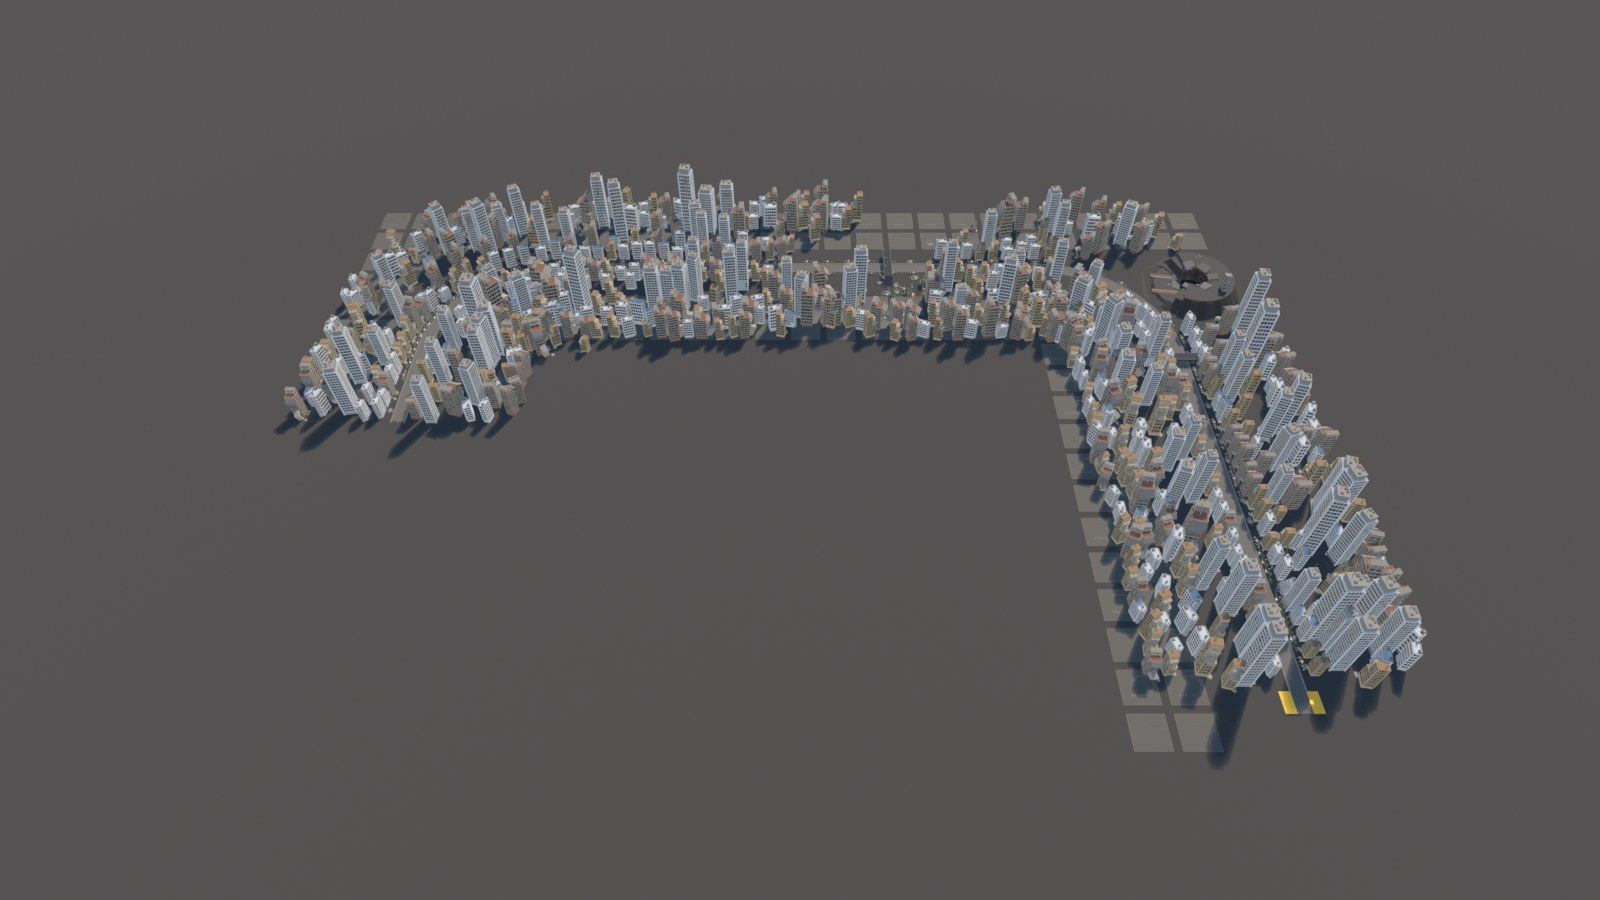
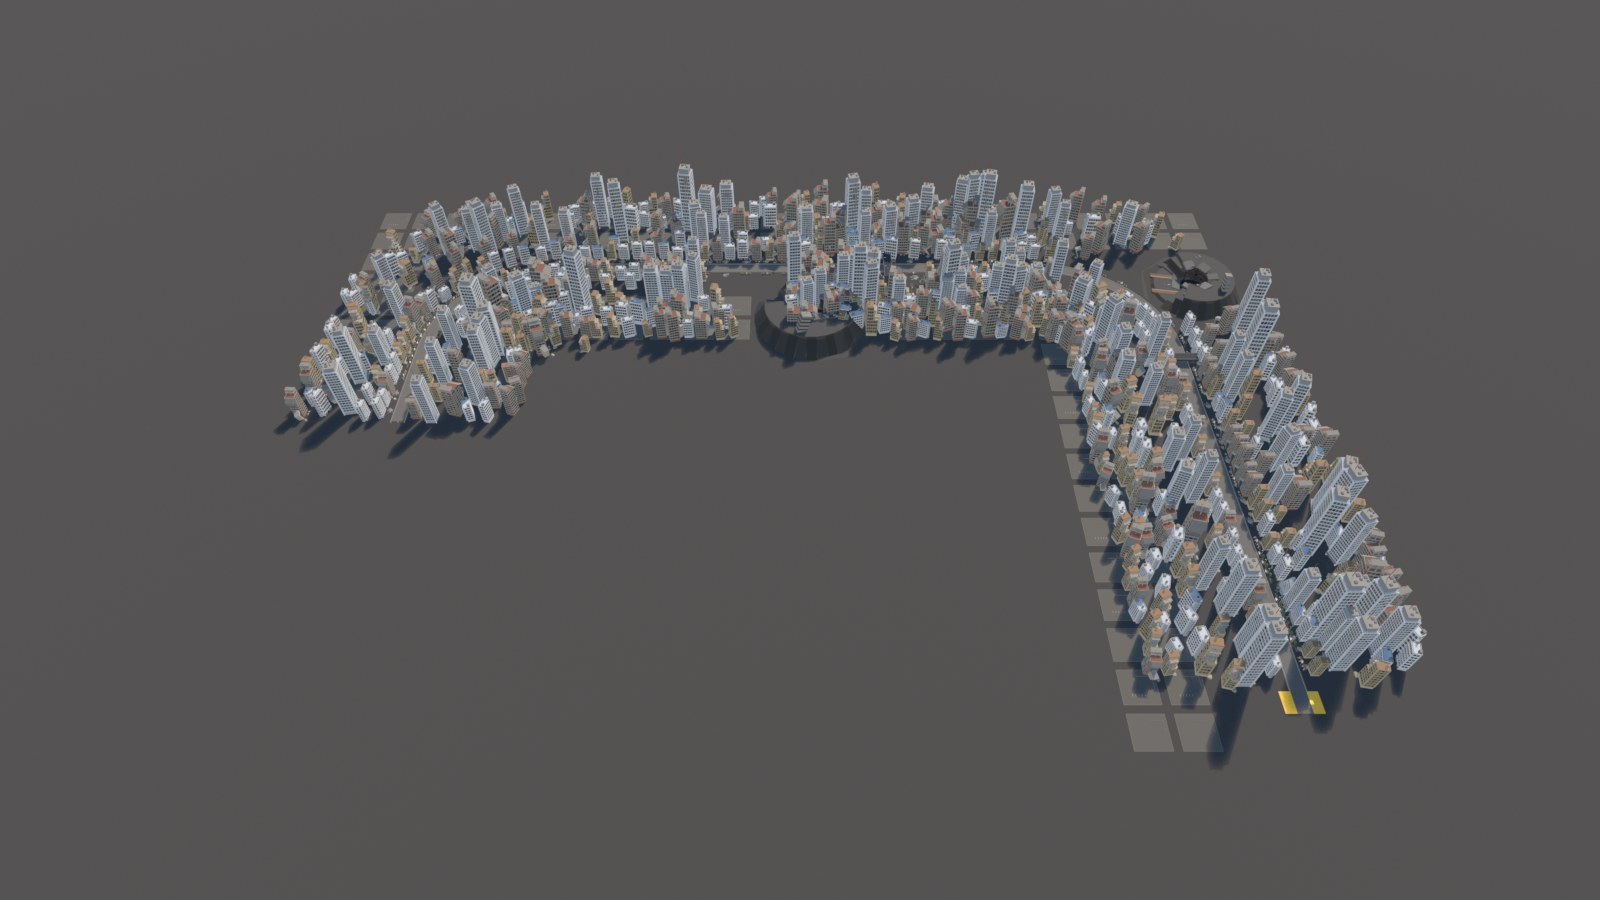
World 2 re-fit round 2, Track 3 after blind review (6/6/6): the 0.33 view's crater back, the side view's lots built up
- The infield crater (approved scale 1.5, turn 0.3), whose approved spot (the box centre) is another track's ground,
  stands beside the road ahead of the 0.33 camera (about 420 ahead, 260-310 to the side; whole bowl 24+ clear of every
  road, base centre on own ground and Ground rect, 300+ from the other crater and the overpasses); a wedge of street
  walls between the camera and the bowl is cleared so the dark plateau shows. The 0.62 crater stays.
- The 05 side view's frame: empty lots beyond the wreck street get the approved buildings (MidRise, OfficeBroken,
  Collapsed; HighRise only inside 270) at 1.0-1.3, heights varied as elsewhere, facing the road.
Export: 1054 kept, 4 dropped (HeroHQ no spot; MidRise and Collapsed on a checkpoint pad; one Kerb on Track 2's
ground). Heroes: BrickFlat, Crater 2, Overpass 3. Density 3.12 -> 3.47 per 10k stud2 (approved 9.13).

Changed region(s): [[0.4375, 0.1867, 0.6562, 0.4044]]

diff --git a/tools/blender/world2/biomes/RuinedCityZ.py b/tools/blender/world2/biomes/RuinedCityZ.py
@@ -968,6 +968,45 @@ def build(k):
 				break
 		if done:
 			break
+	# 02: the infield crater (approved: scale 1.5, turn 0.3, the dark bowl the 33% view looks at). Its approved spot, the
+	# track box's centre, is another track's ground on the wide layout, so it stands beside the road ahead of the 0.33
+	# camera instead, its whole bowl clear of every road (24 studs), its base centre on this track's own ground and Ground
+	# rect, the sight line to it cleared; not on the 0.62 crater or an overpass (re-fit round 2, proposed spot).
+	e, t = _eye(k, 0.33)
+	side = Vector((-t.z, 0, t.x))
+	spot = None
+	others = [(ob.location.x, -ob.location.y) for ob in k.col.objects if ob.type == "MESH" and ob.name.split("_")[2] in ("Crater", "Overpass")]
+	for dist in range(350, 1301, 50):
+		for lat in (260, -260, 285, -285, 310, -310):
+			x, z = e.x + t.x * dist + side.x * lat, e.z + t.z * dist + side.z * lat
+			if (
+				_clear_seg(k, x, z, 218 + 24)
+				and k.owns(x, z)
+				and _on_ground(k, x, z)
+				and all(math.hypot(x - a, z - b) > 300 for a, b in others)
+			):
+				spot = (x, z)
+				break
+		if spot:
+			break
+	if spot:
+		x, z = spot
+		_clear_near(k, x, z, 240, BUILD + ("Kerb", "Rubble", "Blocks", "Barricade"))
+		# the street walls between the camera and the bowl go, in a wedge widening to the bowl's width, so the low dark
+		# plateau (about 69 studs high at 1.5) shows from the runner's lane
+		vx, vz = x - e.x, z - e.z
+		ln = math.hypot(vx, vz)
+		for ob in list(k.col.objects):
+			if ob.type != "MESH" or ob.name.split("_")[2] not in BUILD:
+				continue
+			ox, oz = ob.location.x - e.x, -ob.location.y - e.z
+			u = (ox * vx + oz * vz) / (ln * ln)
+			if 0.02 < u < 1.05 and abs(ox * vz - oz * vx) / ln < 25 + 225 * u:
+				k.col.objects.unlink(ob)
+		k.place("Crater", (x, -1.0, z), 0.3, 1.5)
+		print("CRATER 033 at", round(x), round(z))
+	else:
+		print("CRATER 033: no spot")
 	# The Hero Association HQ dominating the skyline, dead ahead of the 33% view (ref New_Hero_Association_Headquarters_
 	# Anime): the nearest spot along that view's heading where its whole footprint clears the road; big enough to fill
 	# about a quarter of the frame height; the street corridor toward it cleared
@@ -992,8 +1031,27 @@ def build(k):
 	while placed < 26 and tries < 600:
 		tries += 1
 		x, z = p.x + right.x * rng.uniform(40, 150) + t.x * rng.uniform(-110, 110), p.z + right.z * rng.uniform(40, 150) + t.z * rng.uniform(-110, 110)
-		if k.clear_of_road(x, z, 34):
+		if k.clear_of_road(x, z, 34) and k.owns(x, z):
 			k.place(("Rubble", "Kerb", "Rubble", "Barricade")[placed % 4], (x, -1.0, z), rng.uniform(0, math.tau), rng.uniform(0.9, 1.4))
 			placed += 1
+	# 05: the side view's frame beyond its wreck street: empty lots (Blocks tiles with no building on them) get the approved
+	# buildings at approved scales, facing the road, so the frame is a city, not grey lots (re-fit round 2, proposed)
+	near = [(ob.location.x, -ob.location.y) for ob in k.col.objects if ob.type == "MESH" and ob.name.split("_")[2] in BUILD + ("Crater", "Overpass", "SaitamaApt")]
+	street = lambda x, z: abs((x - p.x) * t.x + (z - p.z) * t.z) < 130 and 20 < (x - p.x) * right.x + (z - p.z) * right.z < 165  # noqa: E731
+	filled = 0
+	for along in range(-420, 421, 44):
+		for lat in list(range(-370, -50, 44)) + list(range(66, 371, 44)):
+			q = p + t * (along + rng.uniform(-8, 8)) + right * (lat + rng.uniform(-8, 8))
+			if street(q.x, q.z) or not (k.owns(q.x, q.z) and _on_ground(k, q.x, q.z) and _clear_seg(k, q.x, q.z, 58)):
+				continue
+			if any(math.hypot(q.x - a, q.z - b) < 34 for a, b in near):
+				continue
+			name = rng.choice(("MidRise", "OfficeBroken", "Collapsed", "MidRise") if abs(lat) > 270 else ("MidRise", "OfficeBroken", "Collapsed", "HighRise"))
+			_, yaw = k.beside(L * 0.48 + along, lat)
+			ob = k.place(name, (q.x, -1.0, q.z), yaw + (math.pi / 2 if lat > 0 else -math.pi / 2) + rng.uniform(-0.3, 0.3), rng.uniform(1.0, 1.3))
+			ob.scale[2] *= rng.uniform(0.75, 1.3)
+			near.append((q.x, q.z))
+			filled += 1
+	print("05 INFILL", filled)
 	k.sky([(0.0, "E2DCCC"), (0.07, "C6CFD4"), (0.3, "8FB4D8"), (1.0, "3C74BE")], strength=1.0, sun=(4.0, "FFEED6", 46, 150))
 	_enforce_clearance(k)
